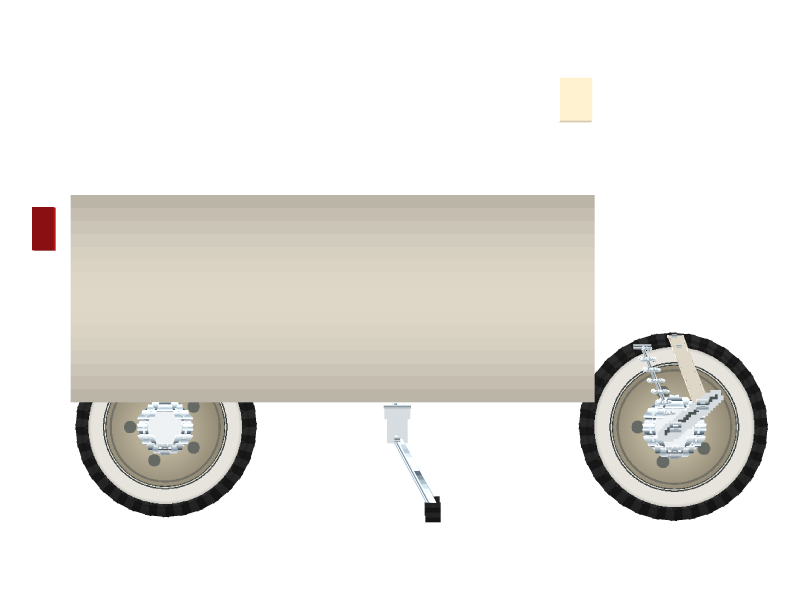
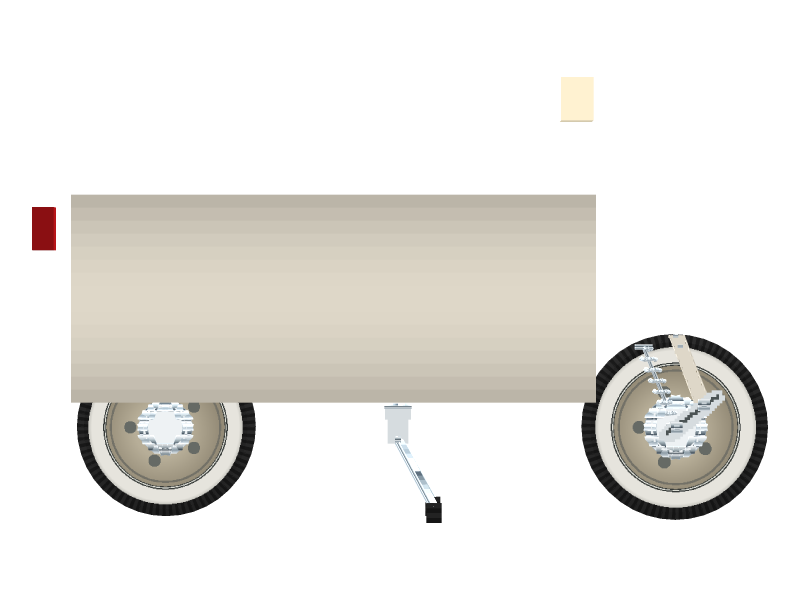
Round the scooter tyre tread by dropping panel margins and using 40 segments

diff --git a/tests/packs/scooterModel.test.ts b/tests/packs/scooterModel.test.ts
@@ -25,7 +25,7 @@ type AreaRow = {
 // One row per area module (issues 6 to 11 each append one row).
 // biome-ignore format: Keep independent area additions to a single line group.
 const AREAS: readonly AreaRow[] = [
-  { area: "running", bones: ["wheel_front", "wheel_rear", "steer", "stand"], assemblies: ["running_wheel_front", "running_wheel_rear", "running_spring", "running_stand"], cubes: 650 },
+  { area: "running", bones: ["wheel_front", "wheel_rear", "steer", "stand"], assemblies: ["running_wheel_front", "running_wheel_rear", "running_spring", "running_stand"], cubes: 740 },
 ];
 
 const python = startPythonWorker();
@@ -72,23 +72,39 @@ print(json.dumps(g.rounded(dict(areas=g.AREA_ORDER,table=g.ASSEMBLIES,assemblies
 });
 
 describe("scooter generated foundation", () => {
-  it("keeps the black tread round in every angular sector", async () => {
-    await python.run(`${setup}
+  it("keeps the black tread silhouette within 0.03 units of a true circle", async () => {
+    const result: { side: string; low: number; high: number }[] = JSON.parse(
+      await python.run(`${setup}
 import math
 r=load_tool('scooter_running')
 t=load_tool('cube_tilt')
 built=r.build()
-assert r.RING_SEGMENTS>=32
-for side,axle,radius in (('front',-11.8,4.25),('rear',11.8,4.08)):
-    for sector in range(r.RING_SEGMENTS):
-        cube=built['wheel_'+side][sector*7+3]
-        corners=t.corners(cube)
-        # The two outer chord endpoints lie on the circle; its midpoint bounds faceting.
-        assert abs(max(math.hypot(p[1]-4.3,p[2]-axle) for p in corners)-radius)<1e-5
-        angle=2*math.pi*(sector+0.5)/r.RING_SEGMENTS
-        reach=max((p[1]-4.3)*math.cos(angle)+(p[2]-axle)*math.sin(angle) for p in corners)
-        assert abs(reach-radius)<0.025
-`);
+assert r.RING_SEGMENTS>=40
+out=[]
+for side,axle,radius in (('front',-11.8,4.3),('rear',11.8,4.3*0.96)):
+    bins=[0.0]*360
+    for cube in built['wheel_'+side][:r.RING_SEGMENTS*7]:
+        c=t.corners(cube)
+        for i in range(8):
+            for axis in range(3):
+                j=i^(1<<axis)
+                if i<j:
+                    for step in range(41):
+                        u=step/40
+                        y=c[i][1]+u*(c[j][1]-c[i][1])-4.3
+                        z=c[i][2]+u*(c[j][2]-c[i][2])-axle
+                        b=int(math.degrees(math.atan2(z,y))%360)
+                        bins[b]=max(bins[b],math.hypot(y,z))
+    out.append(dict(side=side,low=min(bins)-radius,high=max(bins)-radius))
+print(json.dumps(out))
+`),
+    );
+    expect(result).toHaveLength(2);
+    for (const { low, high } of result) {
+      // The outer envelope never pokes past the tread circle and never sags below the chord polygon.
+      expect(high).toBeLessThanOrEqual(0.001);
+      expect(low).toBeGreaterThanOrEqual(-0.03);
+    }
   });
 
   it("keeps black tyre panels behind the whitewall circle on both sides", async () => {

diff --git a/tools/scooter_kit.py b/tools/scooter_kit.py
@@ -120,7 +120,8 @@ def quad(a0, a1, b0, b1, thick, uv_faces, inside, assembly=None, tangent_frame=F
     hi = [max(p[i] for p in projected) for i in range(2)]
     rectangle = all(any(abs(p[0]-x) < FRAME_EPSILON and abs(p[1]-y) < FRAME_EPSILON
                         for p in projected) for x in (lo[0], hi[0]) for y in (lo[1], hi[1]))
-    margin = 0 if rectangle else PANEL_MARGIN
+    # A tyre trapezoid is covered by its bounding rectangle; the usual margin would poke past the tread.
+    margin = 0 if rectangle or tangent_frame else PANEL_MARGIN
     return _oriented([center[0]+lo[0]-margin, center[1]+lo[1]-margin, center[2]-thick],
                      [center[0]+hi[0]+margin, center[1]+hi[1]+margin, center[2]],
                      center, rotation, uv_faces, assembly)

diff --git a/tools/scooter_running.py b/tools/scooter_running.py
@@ -14,15 +14,15 @@ atlas = load_tool("scooter_atlas")
 AREA = "running"
 
 OUTLINE_TEXELS_PER_PX = 8
-RING_SEGMENTS = 32
+RING_SEGMENTS = 40
 HUB_SEGMENTS = 12
 CIRCLE_SEGMENTS = 24
 REAR_WHEEL_SCALE = 0.96
 TYRE_THICKNESS = 0.3
 HUB_THICKNESS = 0.035
 # Revolved tyre profile (x across the tread, radius from the axle); the bead is hidden by the rim disc.
-TYRE_PROFILE = ((-1.05, 3.0), (-1.05, 3.4), (-1.0, 3.95), (-0.7, 4.25),
-                (0.7, 4.25), (1.0, 3.95), (1.05, 3.4), (1.05, 3.0))
+TYRE_PROFILE = ((-1.05, 3.0), (-1.05, 3.4), (-1.0, 3.95), (-0.7, 4.3),
+                (0.7, 4.3), (1.0, 3.95), (1.05, 3.4), (1.05, 3.0))
 DISC_HALF_WIDTH = 1.15
 DISC_HALF_SIZE = 3.74
 # Keep whitewall boundary error below 0.04 model units without adding wheel cubes.

diff --git a/tools/gen_scooter.py b/tools/gen_scooter.py
@@ -17,8 +17,8 @@ AREA_ORDER = (
 )
 
 ASSEMBLIES = {
-    "running_wheel_front": {"owner": "scooter", "cubes": 236},
-    "running_wheel_rear": {"owner": "scooter", "cubes": 236},
+    "running_wheel_front": {"owner": "scooter", "cubes": 292},
+    "running_wheel_rear": {"owner": "scooter", "cubes": 292},
     "running_spring": {"owner": "scooter", "cubes": 112},
     "running_stand": {"owner": "scooter", "cubes": 2},
 }

diff --git a/tools/scooter_dims.py b/tools/scooter_dims.py
@@ -33,7 +33,8 @@ PLACEHOLDER_STAND_HI = (2.0, STAND_PIVOT[1], 2.5)
 VISIBLE_BOUNDS_WIDTH = 3
 VISIBLE_BOUNDS_HEIGHT = 2.5
 VISIBLE_BOUNDS_OFFSET = (0, 1, 0)
-CUBE_BUDGET = 3500
+# Raised from 3500 for 40-segment tyres, which keep the tread silhouette within 0.015 units of a circle.
+CUBE_BUDGET = 3650
 CUBE_BUDGET_CEILING = 3800
 
 

diff --git a/docs/specs/model-and-previews.md b/docs/specs/model-and-previews.md
@@ -64,11 +64,12 @@ pivot lies on the 20.9-degree axis through the grounded front hub; axles are 23.
 model pixels apart. The running area supplies both wheels, suspension, and stand;
 later areas replace the remaining placeholder cubes independently. Whitewall discs
 use 256 by 256 texels over 7.48 model units, keeping both circular boundaries within
-0.04 units of their ideal radii. The 32-segment black tyre skin preserves each
-panel's tangent frame so its bounding box cannot overlap the whitewall. Wheel and
+0.04 units of their ideal radii. The 40-segment black tyre skin preserves each
+panel's tangent frame and takes no panel margin, so its outer envelope stays within
+0.03 units of the 4.3-unit tread circle and cannot overlap the whitewall. Wheel and
 fold bones retain their axle pivots. The packed atlas stays within 1024 by 1024
 texels. Side and front-left previews render the full atlas without a density cap.
-The whole-vehicle target is 3,500 cubes;
+The whole-vehicle target is 3,650 cubes;
 generation rejects more than the 3,800-cube ceiling. This foundation supplies assets
 only; the scooter has no entity or riding behavior yet.
 
